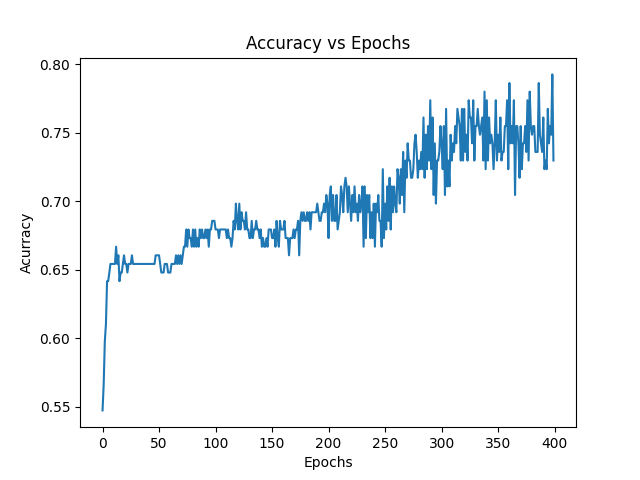
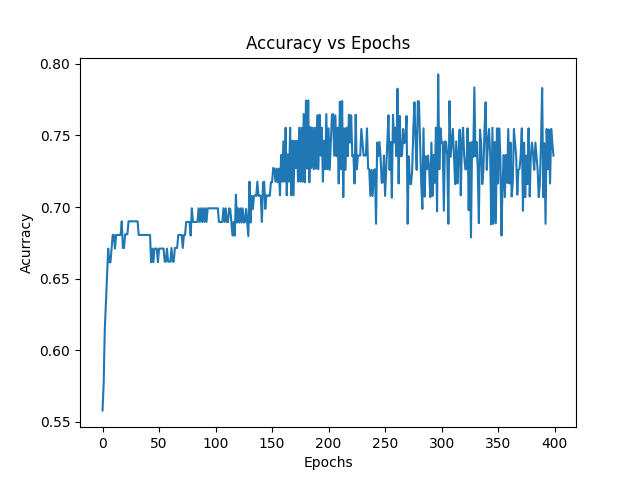
More minor changes

diff --git a/Act_Training/basic_perceptron.py b/Act_Training/basic_perceptron.py
@@ -8,6 +8,7 @@ import numpy as np
 import matplotlib.pyplot as plt
 from sklearn.model_selection import train_test_split
 from sklearn.metrics import accuracy_score
+from sklearn.model_selection import KFold
 
 class Perceptron:
     def __init__(self, epochs, use_svm = False):
@@ -19,12 +20,19 @@ class Perceptron:
         weighted_input = np.dot(input, self.weights)
         return np.sign(weighted_input)
     
-    def mse_cost(self,predition,truth):
-        return np.mean((np.square(truth-predition)))
+    def kfold_accuracy(self, x, y):
+        kf = KFold()
+        accuracy = 0
+        for i, (train_index, test_index) in enumerate(kf.split(x)):
+            X_test = [x[index] for index in test_index]
+            y_test = [y[index] for index in test_index]
+            y_pred = self.predict(X_test)
+            accuracy += accuracy_score(y_test, y_pred)
+        accuracy = accuracy/kf.get_n_splits()
+        return accuracy
     
-    def display_metrics(self,cost,accur,type):
+    def display_metrics(self,err,accur,type):
         accuracy = np.array(accur)
-        costs = np.array(cost)
         plt.figure(1)
         plt.plot(np.arange(self.epochs), accuracy)
         plt.xlabel("Epochs")
@@ -35,16 +43,18 @@ class Perceptron:
         else: 
             plt.title("Accuracy vs Epochs")
             plt.savefig(f"./out/single_neuron_{type}.png")
+        
         plt.figure(2)
-        plt.plot(np.arange(self.epochs), costs)
+        err = np.array(err)
+        plt.plot(np.arange(self.epochs), err)
         plt.xlabel("Epochs")
-        plt.ylabel("Cost")
+        plt.ylabel("Error")
         if(self.use_svm):
-            plt.title("Cost vs Epochs (SVM)")
-            plt.savefig(f"./out/cost_{type}_svm.png")
+            plt.title("Error vs Epochs (SVM)")
+            plt.savefig(f"./out/error_{type}_svm.png")
         else: 
-            plt.title("Cost vs Epochs")
-            plt.savefig(f"./out/cost_{type}.png")
+            plt.title("Error vs Epochs")
+            plt.savefig(f"./out/error_{type}.png")
         plt.show()
 
     def stochastic_gradient_descent(self, train, validate, x_test, y_test, learning_rate):
@@ -54,7 +64,7 @@ class Perceptron:
         number_features = train.shape[1]
         self.weights = 2*np.random.rand(number_features)-1
         accuracy = []
-        costs    = []
+        error = []
         for epoch in range(self.epochs):
             indexes = np.random.permutation(number_indexes)
             for index in indexes:
@@ -66,11 +76,11 @@ class Perceptron:
                     self.weights = self.weights + alpha*(validate[index]-curr_pred)*train[index, :]
             if x_test is not None and y_test is not None:
                 test_prediction = self.predict(x_test)
-                acc = accuracy_score(y_test,test_prediction)
+                acc = self.kfold_accuracy(x_test,y_test)
                 accuracy.append(acc)
-                costs.append(self.mse_cost(test_prediction,y_test))
+                error.append(1-acc)
         if x_test is not None and y_test is not None:
-            self.display_metrics(costs,accuracy,'stochastic')
+            self.display_metrics(error,accuracy,'stochastic')
         return self.weights
     
     def batch_gradient_descent(self, train, validate, x_test, y_test, learning_rate):
@@ -80,7 +90,7 @@ class Perceptron:
         number_features = train.shape[1]
         self.weights = np.ones(shape=(number_features))
         accuracy = []
-        costs    = []
+        error = []
         for epoch in range(self.epochs):
             w = 0
             for index in range(number_indexes):
@@ -93,11 +103,11 @@ class Perceptron:
             self.weights += alpha*w            
             if x_test is not None and y_test is not None:
                 test_prediction = self.predict(x_test)
-                acc = accuracy_score(y_test,test_prediction)
+                acc = self.kfold_accuracy(x_test,y_test)
                 accuracy.append(acc)
-                costs.append(self.mse_cost(test_prediction,y_test))
+                error.append(1-acc)
         if x_test is not None and y_test is not None:
-            self.display_metrics(costs,accuracy,'batch')
+            self.display_metrics(error,accuracy,'batch')
         return self.weights
     
     def mini_gradient_descent(self, train, validate, x_test, y_test, learning_rate, batch_size):
@@ -106,7 +116,7 @@ class Perceptron:
         number_features = train.shape[1]
         self.weights = np.ones(shape=(number_features))
         accuracy = []
-        costs = []
+        error = []
         n = 0
         for epoch in range(self.epochs):
             w = 0
@@ -120,12 +130,12 @@ class Perceptron:
             self.weights += alpha*w
             if x_test is not None and y_test is not None:
                 test_prediction = self.predict(x_test)
-                acc = accuracy_score(y_test,test_prediction)
+                acc = self.kfold_accuracy(x_test,y_test)
                 accuracy.append(acc)
-                costs.append(self.mse_cost(test_prediction,y_test))
+                error.append(1-acc)
             n = n + batch_size if n + batch_size > number_indexes else 0
         if x_test is not None and y_test is not None:
-            self.display_metrics(costs,accuracy,'mini_batch')
+            self.display_metrics(error,accuracy,'mini_batch')
         return self.weights
             
     def train(self,training_type ,train, validate,x_test = None,y_test = None ,learning_rate = 0.001):
@@ -141,6 +151,6 @@ if __name__ == "__main__":
     for i in range(len(y)):
         y[i] = (y[i] - 1.5)*2
     
-    X_train, X_test, y_train, y_test = train_test_split(x, y, test_size=0.3, random_state=42)
-    model = Perceptron(400,True)
-    model.train('mini_batch',X_train,y_train,X_test,y_test,0.001) 
+    X_train, X_test, y_train, y_test = train_test_split(x, y, test_size=0.2, random_state=42)
+    model = Perceptron(400,False)
+    model.train('stochastic',X_train,y_train,X_test,y_test,0.001) 

diff --git a/Act_Training/mlp.py b/Act_Training/mlp.py
@@ -1,0 +1,50 @@
+import pandas as pd
+import numpy as np
+from sklearn.model_selection import train_test_split
+from sklearn.preprocessing import StandardScaler
+from sklearn.neural_network import MLPClassifier, MLPRegressor
+from sklearn.metrics import accuracy_score, mean_squared_error
+from sklearn.datasets import load_diabetes
+from sklearn.model_selection import KFold
+
+def kfold_accuracy(x, y, mlp):
+    kf = KFold()
+    accuracy = 0
+    for i, (train_index, test_index) in enumerate(kf.split(x)):
+        X_test = [x[index] for index in test_index]
+        y_test = [y[index] for index in test_index]
+        y_pred = mlp.predict(X_test)
+        accuracy += accuracy_score(y_test, y_pred)
+    accuracy /= kf.get_n_splits()
+    return accuracy
+
+def train_MLP_classifier_from_dataset(path):
+    MLP = MLPClassifier(hidden_layer_sizes=(100,100),max_iter = 100,activation = "relu", solver = 'adam')
+    data = np.loadtxt(path)
+    x = data[:,1:-1]
+    y = data[:,0]
+    X_train, X_test, y_train, y_test = train_test_split(x, y, test_size=0.3, random_state=42)
+    MLP.fit(X_train, y_train)
+    accuracy = kfold_accuracy(x, y, MLP)
+    print('Accuracy: {:.2f}'.format(accuracy))
+
+def train_MLP_regression_diabetes():
+    MLP = MLPRegressor(max_iter=10000,activation='identity', hidden_layer_sizes=(100, 100, 100, 100, 100, 100), alpha=0.01, random_state=69, early_stopping=False)
+    data, target = load_diabetes(return_X_y=True)
+    X_train, X_test, y_train, y_test = train_test_split(data, target, test_size=0.2, random_state=42)
+    MLP.fit(X_train, y_train)
+    pred = MLP.predict(X_test)
+    r_squared = MLP.score(X_test, y_test)
+    mse = np.sqrt(mean_squared_error(y_test, pred))
+    print(f"R2: {r_squared}")
+    print(f"MSE: {mse}")
+
+#ex1
+print("Part 1 results:")
+res_ex1 = train_MLP_classifier_from_dataset('./data/misterious_data_1.txt')
+#ex2
+print("Part 2 results:")
+res_ex2 = train_MLP_classifier_from_dataset('./data/misterious_data_4.txt')
+#ex3
+print("Part 3 results:")
+res_ex3 = train_MLP_regression_diabetes()
